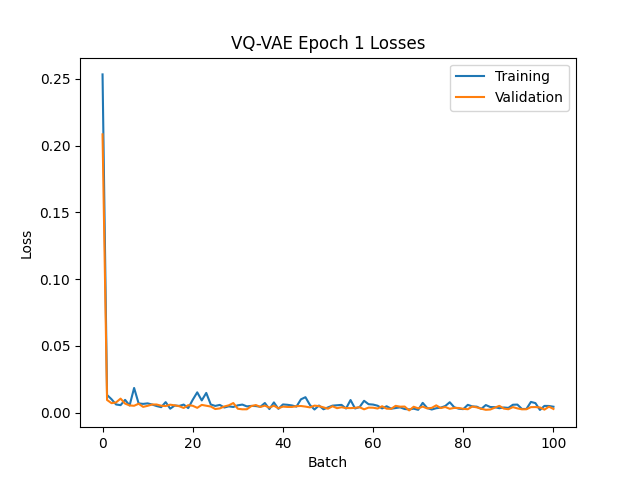
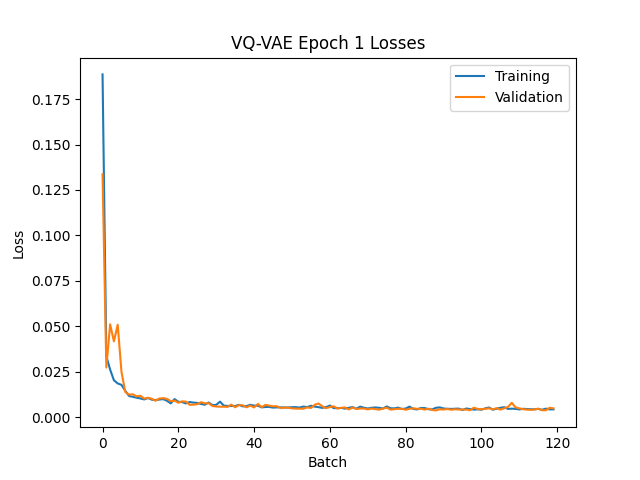
refined training hyper-parameters

diff --git a/recognition/VQ-VAE-s4578267/train.py b/recognition/VQ-VAE-s4578267/train.py
@@ -10,9 +10,9 @@ from config import vqvae_config
 import matplotlib.pyplot as plt
 
 # hyper-parameters
-batch_size = 1
-epochs = 1
-learning_rate = 0.0005
+batch_size = 32
+epochs = 100
+learning_rate = 0.005
 commit_loss = 0.25
 
 
@@ -36,11 +36,10 @@ model = modules.VQVAE(
     out_channels=vqvae_config.out_channels, 
     latent_dim=vqvae_config.latent_dim, 
     kernel_size=vqvae_config.kernel_size, 
-    image_size=train_set[0].shape[1:], 
     num_embeds=vqvae_config.num_embeds
     ).to(device)
 optimizer = torch.optim.Adam(model.parameters(), lr=learning_rate)
-scheduler = torch.optim.lr_scheduler.LinearLR(optimizer=optimizer, start_factor=1.0, end_factor=0.001)
+scheduler = torch.optim.lr_scheduler.CosineAnnealingLR(optimizer=optimizer, T_max=epochs, eta_min=0.0)
 
 ###
 ###
@@ -63,7 +62,7 @@ for epoch in range(epochs):
         images = imgs.to(device).float()
 
         # Forward
-        output = model(images)
+        output, _, _ = model(images)
 
         # Calculate loss
         loss = model.loss_function(output, images, commit_loss)
@@ -78,7 +77,7 @@ for epoch in range(epochs):
         model.eval()
         with torch.no_grad():
             val_images = next(iter(val_loader)).to(device).float()
-            val_output = model(val_images)
+            val_output, _, _ = model(val_images)
             
             val_loss = model.loss_function(val_output, val_images, commit_loss)
             val_losses.append(val_loss.item())
@@ -127,7 +126,7 @@ for i, imgs in enumerate(test_loader):
     images = imgs.to(device).float()
 
     # Forward
-    output = model(images)
+    output, _, _ = model(images)
 
     # Calculate Loss
     loss = model.loss_function(output, images, 1.0)

diff --git a/recognition/VQ-VAE-s4578267/predict.py b/recognition/VQ-VAE-s4578267/predict.py
@@ -19,8 +19,7 @@ model = modules.VQVAE(
     in_channels=vqvae_config.in_channels,
     out_channels=vqvae_config.out_channels, 
     latent_dim=vqvae_config.latent_dim, 
-    kernel_size=vqvae_config.kernel_size, 
-    image_size=test_set[0].shape[1:], 
+    kernel_size=vqvae_config.kernel_size,
     num_embeds=vqvae_config.num_embeds
     ).to(device)
 
@@ -43,7 +42,7 @@ for i in range(num_images):
     images = imgs.to(device).float()
 
     # Forward
-    output = model(images)
+    output, _, _ = model(images)
 
     # Calculate Loss
     loss = model.loss_function(output, images, 1.0).item()

diff --git a/recognition/VQ-VAE-s4578267/modules.py b/recognition/VQ-VAE-s4578267/modules.py
@@ -335,7 +335,7 @@ class VQVAE(nn.Module):
         rev_out.reverse()
         self.decoder = Decoder(out_channels=rev_out, kernel_size=kernel_size)
 
-    def loss_function(self, predicted, target, commit_loss=1.0):
+    def loss_function(self, predicted: torch.Tensor, target: torch.Tensor, commit_loss=1.0):
         """
         Computes both the encoding loss and the quantize loss.
 
